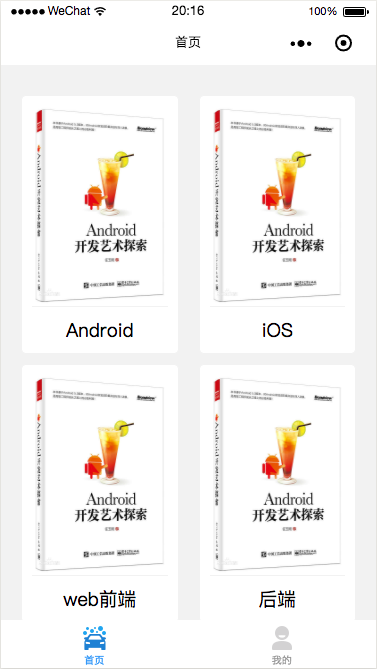
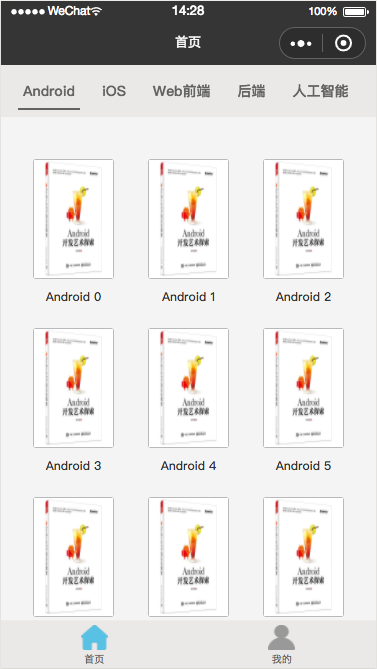
增加评论功能

diff --git a/pages/detail/detail.js b/pages/detail/detail.js
@@ -2,7 +2,7 @@
 import config from '../../config/config.js';
 Page({
   data: {
-    id: 0,
+    id: '',
     bookInfo: {},
     androidBookInfo: {
       "image": "http://renyugang.io/wp-content/uploads/2018/09/android.jpg",
@@ -26,10 +26,14 @@ Page({
     },
     favoriteList: [],
     isMarked: false,
+    commentList: [],
+    currentComment: '',
+    userInfo: null,
   },
   onLoad: function (query) {
     //query 是通过 url 传过来的参数的集合
-    if (query.id) { //处理是否有 id
+    if (query.id && query.name) { //处理是否有 id 和 name
+      //匹配模拟数据
       let bookInfo = {};
       if (query.id.indexOf('android_') != -1) {
         bookInfo = this.data.androidBookInfo;
@@ -57,6 +61,19 @@ Page({
       });
       this.setData({ //更新收藏状态
         isMarked: this.isMarked()
+      });
+    }
+    //读取评论列表
+    let commentList = wx.getStorageSync(this.data.id);
+    if (commentList) {
+      this.setData({
+        commentList: commentList
+      });
+    }
+    let userInfo = wx.getStorageSync(config.cacheKey.userInfo);
+    if (userInfo) {
+      this.setData({
+        userInfo: userInfo
       });
     }
   },
@@ -95,5 +112,29 @@ Page({
       }
     }
     return false;
+  },
+  onCommentInput: function (e) {
+    this.setData({
+      currentComment: e.detail.value
+    });
+  },
+  toSubmitComment: function () {
+    if (!this.data.currentComment) return;
+    let comment = {
+      username: this.data.userInfo.username,
+      content: this.data.currentComment
+    };
+    let commentList = wx.getStorageSync(this.data.id);
+    if (!commentList) {
+      commentList = [];
+    }
+    commentList.push(comment);
+    this.setData({
+      commentList: commentList
+    });
+    wx.setStorageSync(this.data.id, commentList);
+    this.setData({
+      currentComment: ''
+    });
   }
 })

diff --git a/pages/home/home.js b/pages/home/home.js
@@ -15,7 +15,7 @@ Page({
     }, {
       "name": "小说"
     }],
-    currentTabIndex: 0,
+    currentTabIndex: 0, //当前选择的 tab
     dataList: [
       [{
         "id": "android_0",

diff --git a/INFO.md b/INFO.md
@@ -230,11 +230,20 @@ module.exports = {
 ```html
 <!-- pages/home/home.wxml -->
 <view>
+    <!-- 使用 scroll-view 实现 x 轴滑动 -->
+    <scroll-view scroll-x="{{true}}">
+        <view class="tab-menu" style="width:{{tabList.length*150}}rpx;">
+            <!-- 使用 for 循环便利生成 item 的 view -->
+            <view class="item {{currentTabIndex==index?'active':''}}" wx:for="{{tabList}}" data-item="{{item}}" data-index="{{index}}" wx:key="index" bindtap="onTabItemClick">
+                {{item.name}}
+            </view>
+        </view>
+    </scroll-view>
     <view class="list-container">
         <!-- 使用 for 循环便利生成 item 的 view -->
-        <view class="item" wx:for="{{dataList}}" data-item="{{item}}" wx:key="index" bindtap="onItemClick">
+        <view class="item" wx:for="{{dataList[currentTabIndex]}}" data-item="{{item}}" wx:key="index" bindtap="onItemClick">
             <view class="cover">
-                <image src="{{item.imageUrl}}" aspectFill />
+                <image src="{{item.image}}" scaleToFill />
             </view>
             <view class="name">{{item.name}}</view>
         </view>
@@ -247,12 +256,45 @@ module.exports = {
 ```css
 /* pages/home/home.wxss */
 page {
-    background-color: #f2f2f2;
+    background-color: #F4F4F4;
+}
+
+.tab-menu {
+    min-width: 750rpx;
+    height: 104rpx;
+    background-color: #EAE9E7;
+    /* 使用 flex 布局 */
+    display: flex;
+    /* 方向为纵向 */
+    flex-direction: row;
+    /* 设置为不可换行 */
+    flex-wrap: nowrap;
+    /* 从左边开始布局 */
+    justify-content: flex-start;
+    /* 垂直居中 */
+    align-content: center;
+    align-items: center;
+    padding: 0 34rpx;
+}
+
+.tab-menu .item {
+    height: 74rpx;
+    line-height: 74rpx;
+    padding: 0 10rpx;
+    margin-right: 34rpx;
+    font-size: 28rpx;
+    font-family: SourceHanSansCN-Medium;
+    font-weight: bold;
+    color: rgba(99, 99, 98, 1);
+}
+
+.tab-menu .active {
+    border-bottom: #636362 solid 4rpx;
 }
 
 .list-container {
     width: 100%;
-    padding: 40rpx 0 80rpx 40rpx;
+    padding: 60rpx 0 60rpx 60rpx;
     /* 使用 flex 布局 */
     display: flex;
     /* 方向为纵向 */
@@ -268,18 +310,19 @@ page {
 
 .list-container .item {
     /* 这里使用到了 css 中的 calc 计算函数，详见下面介绍 */
-    width: calc(100% * 0.5 - 40rpx);
-    margin-right: 40rpx;
+    width: calc((100% - 180rpx) / 3);
+    margin-right: 60rpx;
     margin-top: 20rpx;
-    border: 2rpx solid #f2f2f2;
     border-radius: 10rpx;
-    padding: 20rpx;
-    background-color: #ffffff;
+    padding: 5rpx;
 }
 
 .list-container .item .cover {
     width: 100%;
-    height: 400rpx;
+    height: 240rpx;
+    border: 2rpx solid #B9B9BB;
+    background-color: #ffffff;
+    border-radius: 6rpx;
 }
 
 .list-container .item .cover image {
@@ -288,9 +331,13 @@ page {
 }
 
 .list-container .item .name {
-    border-top: 2rpx solid #f2f2f2;
     text-align: center;
-    padding-top: 20rpx;
+    height: 70rpx;
+    font-size: 24rpx;
+    font-family: SourceHanSansCN-Medium;
+    font-weight: 500;
+    color: rgba(52, 52, 52, 1);
+    line-height: 70rpx;
 }
 ```
 
@@ -308,10 +355,12 @@ page {
 import config from '../../config/config.js';
 Page({
   data: {
-    dataList: []//这里应该是从服务期获取数据，暂时为模拟数据。后面再修改
+    tabList: [],//模拟数据
+    currentTabIndex: 0, //当前选择的 tab
+    dataList: []//模拟数据
   },
   onLoad: function (options) {
-     //读取用户登录信息
+    //读取用户登录信息
     let userInfo = wx.getStorageSync(config.cacheKey.userInfo);
     if (userInfo) { //用户已登录，则直将用户信息保存到全局变量中
       getApp().globalData.userInfo = userInfo;
@@ -321,9 +370,21 @@ Page({
       });
     }
   },
+  onReady: function () {},
+  onShow: function () {},
+  onHide: function () {},
+  onUnload: function () {},
+  onTabItemClick: function (e) {
+    console.error(e);
+    let item = e.currentTarget.dataset.item;
+    let index = e.currentTarget.dataset.index;
+    this.setData({
+      currentTabIndex: index
+    });
+  },
   onItemClick: function (e) {
     let item = e.currentTarget.dataset.item;
-    wx.navigateTo({//通过 url 传递参数，是不是跟 html 很像？
+    wx.navigateTo({ //通过 url 传递参数，是不是跟 html 很像？
       url: "/pages/detail/detail?id=" + item.id + "&name=" + item.name
     });
   }
@@ -532,27 +593,35 @@ import config from '../../config/config.js';
 Page({
   data: {
     id: 0,
-    bookInfo: {
-      "name": "Android开发艺术探索",
-      "image": "http://t.im/36pa",
-      "url": "https://book.douban.com/subject/26599538/",
-      "introduce": "《Android开发艺术探索》是一本Android进阶类书籍，采用理论、源码和实践相结合的方式来阐述高水准的Android应用开发要点。《Android开发艺术探索》从三个方面来组织内容。第一，介绍Android开发者不容易掌握的一些知识点；第二，结合Android源代码和应用层开发过程，融会贯通，介绍一些比较深入的知识点；第三，介绍一些核心技术和Android的性能优化思想。"
-    },
+    bookInfo: {},
+    androidBookInfo: {}, // 模拟数据
+    iosBookInfo: {}, // 模拟数据
+    feBookInfo: {}, // 模拟数据
+    backendBookInfo: {}, // 模拟数据
+    aiBookInfo: {}, // 模拟数据
     favoriteList: [],
     isMarked: false,
   },
   onLoad: function (query) {
     //query 是通过 url 传过来的参数的集合
-    if (query.id) { //处理是否有 id
-      this.setData({
-        id: parseInt(query.id)
-      });
-    }
-    if (query.name) { //处理是否有 name
-      let bookInfo = this.data.bookInfo;
-      bookInfo.id = this.data.id;
+    if (query.id & query.name) { //处理是否有 id 和 name
+      //匹配模拟数据
+      let bookInfo = {};
+      if (query.id.indexOf('android_') != -1) {
+        bookInfo = this.data.androidBookInfo;
+      } else if (query.id.indexOf('ios_') != -1) {
+        bookInfo = this.data.iosBookInfo;
+      } else if (query.id.indexOf('fe_') != -1) {
+        bookInfo = this.data.feBookInfo;
+      } else if (query.id.indexOf('backend_') != -1) {
+        bookInfo = this.data.backendBookInfo;
+      } else if (query.id.indexOf('ai_') != -1) {
+        bookInfo = this.data.aiBookInfo;
+      }
+      bookInfo.id = query.id;
       bookInfo.name = query.name;
-      this.setData({ //这里应该通过 api 获取数据，这里仅做模拟，以后修改
+      this.setData({
+        id: query.id,
         bookInfo: bookInfo
       });
     }
@@ -567,6 +636,10 @@ Page({
       });
     }
   },
+  onReady: function () {},
+  onShow: function () {},
+  onHide: function () {},
+  onUnload: function () {},
   toFavorite: function () { //收藏按钮点击
     if (this.isMarked()) { //图书已被收藏，则取消收藏
       let favoriteList = this.data.favoriteList;
@@ -719,4 +792,19 @@ Page({
 
   图 7-3-4 提交审核
 
-  点击提交审核，一般 2-3 小时就审核通过了，审核通过后需要进行公测，最后是上线。（该部分需要补充资料，稍后补充完整）
+  点击提交审核，然后会看到一些条款不管他打赏对勾点击下一步。
+
+![7-3-5](/Users/next/Desktop/GBook/images/7-3-5.png)
+
+到这里需要我们填写一些信息，首先需要选中首页页面路径，也就是 `app.json` 中 `pages` 下的第一个路径。
+
+然后填写完信息点击提交审核。
+
+![7-3-6](/Users/next/Desktop/GBook/images/7-3-6.png)
+
+提交审核之后会在 `开发管理` 下看到小程序已经处于审核中的状态了。
+
+![7-3-7](/Users/next/Desktop/GBook/images/7-3-7.png)
+
+一般 2-3 小时就会审核通过了，审核通过后需要我们点击进行公测。最后是上线，上线之后就能在微信中搜索到我们的小程序了。
+
